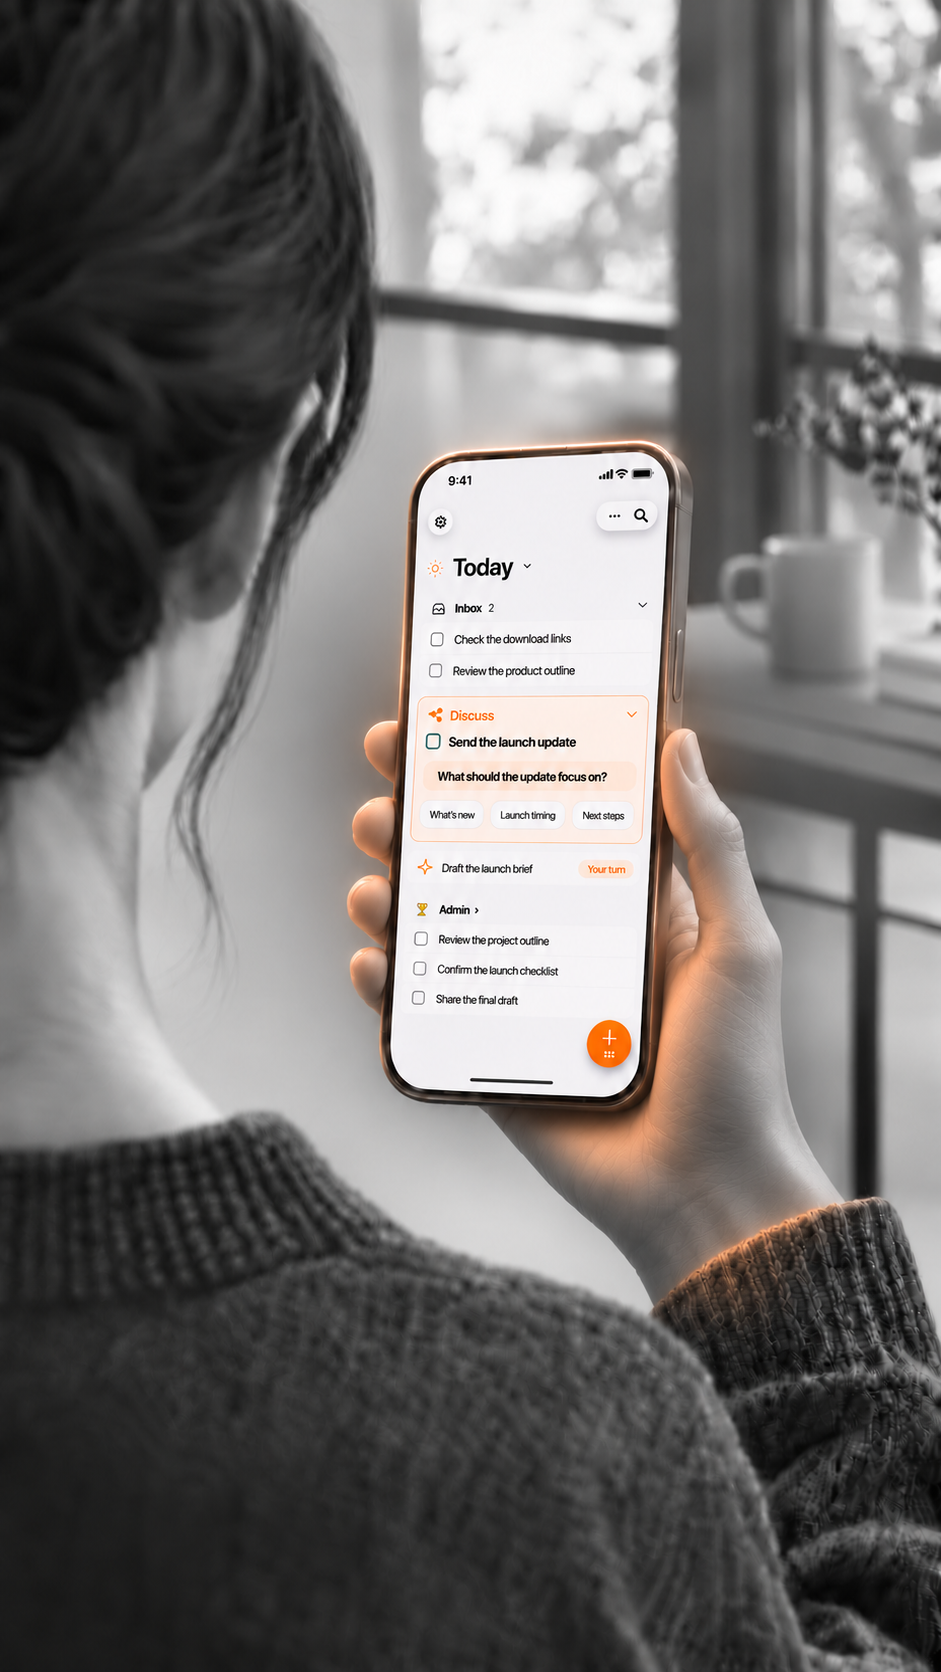
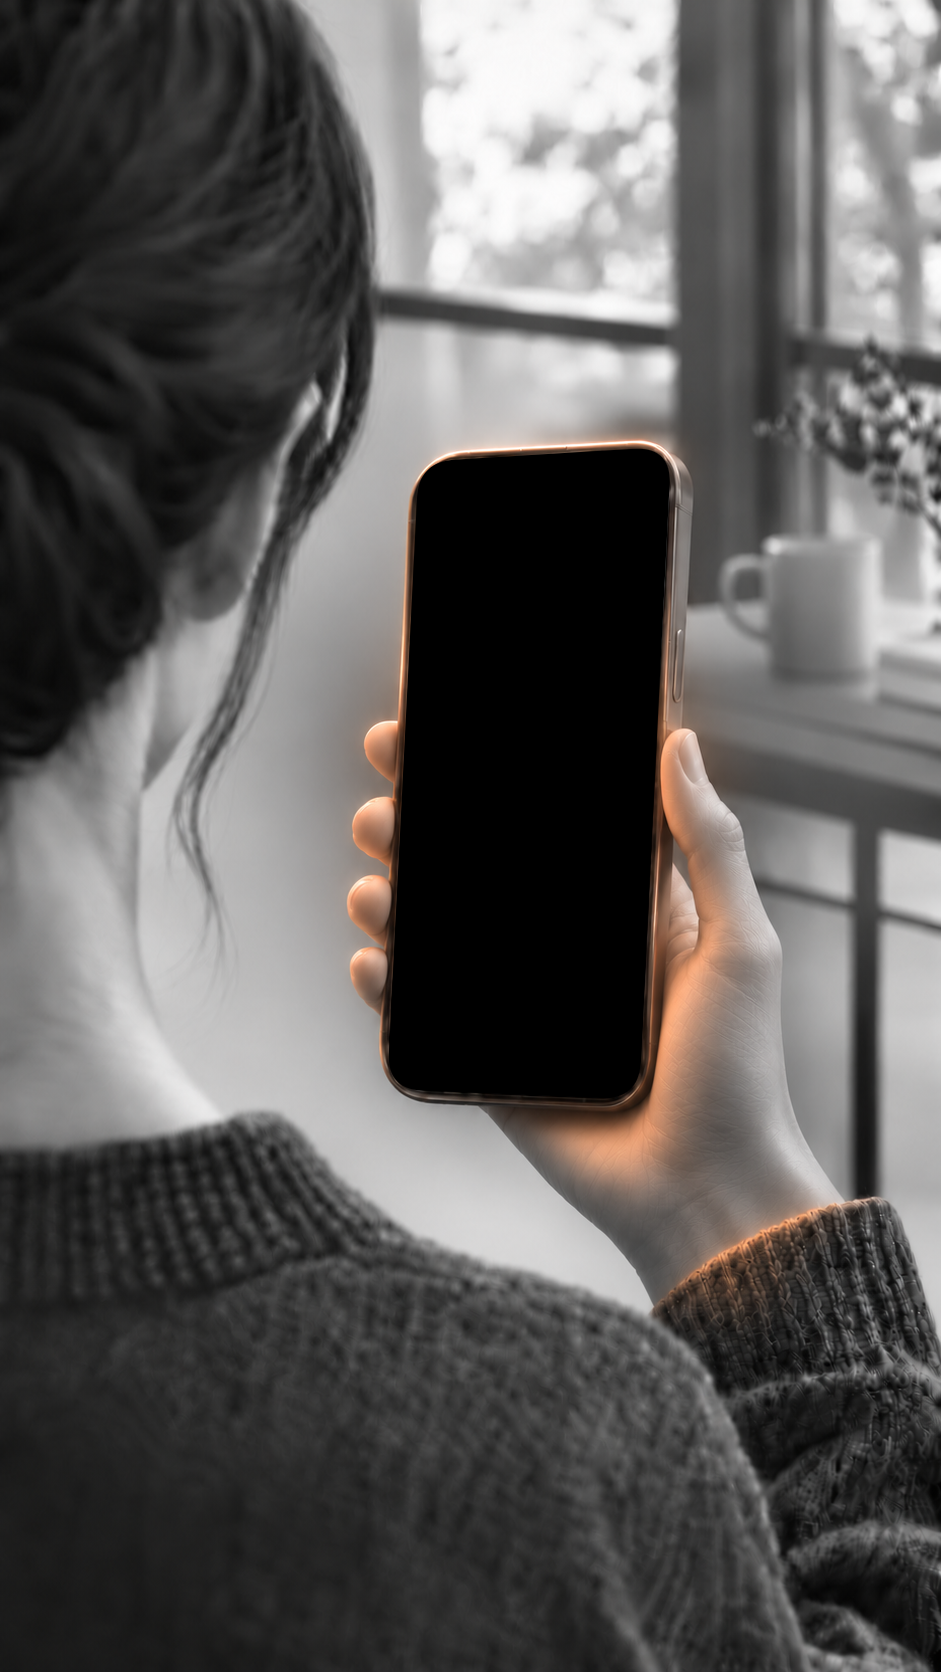
Photo composite skill; the Meet Septena photo has no generated screen
docs/photo-composite/SKILL.md holds the three-layer technique (photo,
screenshot PNG, text) for any photo with a device. A shipped screen is always
a composed PNG (mz, 2026-11-24).

- replace_photo_screen.py reads the corners from X.screen.json and stops when
  the sidecar is missing or the photo is not the measured file. --blackout
  paints the photo's own screen black. photo-today.png went through it: the
  generated screen also showed as a light line at the edge.
- render.mjs stops when a photo panel names no screen.
- The photo row's scene is "-" again: 8d7dcb2b set today/0, which drew a
  second, placeholder phone over the photo.

Changed region(s): [[0.4006, 0.2488, 0.7088, 0.6842]]

diff --git a/tools/3d-studio/replace_photo_screen.py b/tools/3d-studio/replace_photo_screen.py
@@ -1,21 +1,29 @@
 #!/usr/bin/env python3
 """
-Photorealistic Screen Replacement for `appstore/art/photo-today.png`
-(Runs via Blender's bundled Python + NumPy in ~2s — zero extra packages needed.)
+Photo composite: put a real app screenshot on the device in a photo.
+Technique and steps: docs/photo-composite/SKILL.md.
 
-Maps any real iPhone screenshot onto the exact sub-pixel projective screen quad of
-`photo-today.png` using:
-  - 4x4 linear-light supersampling (crisp, moire-free SF Pro UI text)
-  - Apple continuous-curvature squircle corner mask (exact 0.155w inner bezel match)
-  - Matched photographic OLED black-floor, white-point, subtle ambient falloff,
-    whisper-soft glass sheen, and fine sensor micro-grain
+The photo `X.png` needs a sidecar `X.screen.json` with the screen corners
+(TL, TR, BR, BL, normalized, origin top-left), the corner radius as a fraction
+of the screen width, and the SHA-256 of the photo. The script stops when the
+sidecar is missing or the photo is not the measured one, so a changed photo
+never gets a screenshot in the wrong place.
 
-Usage:
-  blender -b --python tools/3d-studio/replace_photo_screen.py -- \
-    --ios tools/3d-studio/screens/demo_ios.png \
-    --out tools/3d-studio/renders/photo_today_replaced.png
+Runs in Blender's bundled Python + NumPy (no extra packages): a projective
+warp with 4x4 linear-light supersampling, a continuous-curvature corner mask,
+and light matching (black floor, white point, falloff, sheen, grain).
+
+Composite:
+  blender -b --python-exit-code 1 --python tools/3d-studio/replace_photo_screen.py -- \
+    --photo appstore/art/photo-today.png --ios SCREEN.png --out OUT.png
+
+New photo (paint its own screen black, then pin the new hash in the sidecar):
+  blender -b --python-exit-code 1 --python tools/3d-studio/replace_photo_screen.py -- \
+    --photo X.png --blackout
 """
 import argparse
+import hashlib
+import json
 import os
 import sys
 import bpy
@@ -27,18 +35,6 @@ DEFAULT_PHOTO = os.path.join(REPO_ROOT, "appstore", "art", "photo-today.png")
 DEFAULT_IOS = os.path.join(SCRIPT_DIR, "screens", "demo_ios.png")
 DEFAULT_OUT = os.path.join(SCRIPT_DIR, "renders", "photo_today_replaced.png")
 
-# Sub-pixel measured screen quad of `appstore/art/photo-today.png` (941 x 1672),
-# in normalized [0..1] image coords (origin = top-left) so it scales cleanly if photo is resized.
-# Measured edge fit residuals: L=0.18px, R=0.04px, T=0.05px, B=0.05px.
-PHOTO_TODAY_QUAD_NORM = np.array([
-    [420.24 / 941.0,  463.26 / 1672.0],  # TL
-    [669.85 / 941.0,  448.10 / 1672.0],  # TR
-    [637.38 / 941.0, 1098.06 / 1672.0],  # BR
-    [388.61 / 941.0, 1087.80 / 1672.0],  # BL
-], dtype=np.float64)
-
-# Inner bezel rounded corner radius as fraction of screen width (measured ~0.155)
-CORNER_RADIUS_U = 0.156
 SQUIRCLE_POWER = 2.65
 
 
@@ -50,7 +46,8 @@ def parse_args():
         argv = []
     p = argparse.ArgumentParser(description="Replace iPhone screen in photo-today.png with a real screenshot")
     p.add_argument("--photo", default=DEFAULT_PHOTO, help="Base photograph path")
-    p.add_argument("--ios", default=DEFAULT_IOS, help="Real iPhone screenshot PNG/JPG")
+    p.add_argument("--ios", default=DEFAULT_IOS, help="Real app screenshot PNG/JPG")
+    p.add_argument("--blackout", action="store_true", help="Paint the photo's own screen black in place and pin its hash in the sidecar")
     p.add_argument("--out", default=DEFAULT_OUT, help="Output composited PNG path")
     p.add_argument("--inset-px", type=float, default=-0.5, help="Expand/contract screen mask in pixels (negative = slightly wider into bezel)")
     p.add_argument("--feather-px", type=float, default=1.25, help="Anti-aliased edge blend width in pixels")
@@ -60,6 +57,26 @@ def parse_args():
     p.add_argument("--grain", type=float, default=0.005, help="Matching photographic luma grain sigma")
     p.add_argument("--ssaa", type=int, default=4, help="Supersampling grid per axis (4 = 16 samples/px)")
     return p.parse_args(argv)
+
+
+def sha256(path):
+    with open(path, "rb") as f:
+        return hashlib.sha256(f.read()).hexdigest()
+
+
+def load_screen(photo_path, check_hash=True):
+    """Read and check the photo's sidecar. Exits when it cannot be trusted."""
+    side = os.path.splitext(photo_path)[0] + ".screen.json"
+    if not os.path.exists(side):
+        sys.exit(f"replace_photo_screen: {side} is missing. Measure the photo first (docs/photo-composite/SKILL.md).")
+    with open(side) as f:
+        meta = json.load(f)
+    corners = np.asarray(meta["corners"], dtype=np.float64)
+    if corners.shape != (4, 2) or corners.min() < 0.0 or corners.max() > 1.0:
+        sys.exit(f"replace_photo_screen: {side} needs 4 corners in 0..1")
+    if check_hash and meta.get("sha256") != sha256(photo_path):
+        sys.exit(f"replace_photo_screen: {photo_path} is not the photo {side} was measured on. Measure it again.")
+    return side, meta, corners, float(meta["cornerRadius"])
 
 
 def srgb_to_linear(c):
@@ -147,9 +164,37 @@ def save_image_topdown_srgb(arr_srgb, out_path):
     bpy.data.images.remove(out_img)
 
 
+def blackout(photo_path, photo, side, meta, corners, corner_radius):
+    """Remove the photo's own screen: paint it black, 1 px past the edge, so no
+    generated UI is left to show. Then pin the new file's hash."""
+    ph, pw, _ = photo.shape
+    quad_px = corners * np.array([[pw, ph]], dtype=np.float64)
+    H = compute_homography(quad_px, np.array([[0.0, 0.0], [1.0, 0.0], [1.0, 1.0], [0.0, 1.0]]))
+    gx, gy = np.meshgrid(np.arange(pw) + 0.5, np.arange(ph) + 0.5)
+    d = H[2, 0] * gx + H[2, 1] * gy + H[2, 2]
+    u = (H[0, 0] * gx + H[0, 1] * gy + H[0, 2]) / d
+    v = (H[1, 0] * gx + H[1, 1] * gy + H[1, 2]) / d
+    w = 0.5 * (np.linalg.norm(quad_px[1] - quad_px[0]) + np.linalg.norm(quad_px[2] - quad_px[3]))
+    h = 0.5 * (np.linalg.norm(quad_px[3] - quad_px[0]) + np.linalg.norm(quad_px[2] - quad_px[1]))
+    sdf_px = squircle_sdf(u, v, h / w, corner_radius, power=SQUIRCLE_POWER) * w
+    # Solid black to 1 px outside the edge, then a 1 px soft step into the bezel.
+    keep = np.clip(sdf_px - 1.0, 0.0, 1.0)
+    out = photo[:, :, :3] * np.where(d > 0, keep, 1.0)[..., None]
+    save_image_topdown_srgb(out, photo_path)
+    meta["sha256"] = sha256(photo_path)
+    with open(side, "w") as f:
+        json.dump(meta, f, indent=2)
+        f.write("\n")
+    print(f"Screen painted black in {photo_path}; hash pinned in {side}")
+
+
 def main():
     args = parse_args()
+    side, meta, corners, corner_radius = load_screen(args.photo, check_hash=not args.blackout)
     photo = load_image_topdown_srgb(args.photo)
+    if args.blackout:
+        blackout(args.photo, photo, side, meta, corners, corner_radius)
+        return
     screen = load_image_topdown_srgb(args.ios)
 
     ph, pw, _ = photo.shape
@@ -158,7 +203,7 @@ def main():
     print(f"Base photo: {pw}x{ph} | Screenshot: {sw}x{sh} (aspect={screen_aspect:.4f})")
 
     # Exact quad corners in base photo pixel coordinates
-    quad_px = PHOTO_TODAY_QUAD_NORM * np.array([[pw, ph]], dtype=np.float64)
+    quad_px = corners * np.array([[pw, ph]], dtype=np.float64)
     uv_corners = np.array([
         [0.0, 0.0],  # TL
         [1.0, 0.0],  # TR
@@ -213,7 +258,7 @@ def main():
     vc = (H[1, 0] * gx + H[1, 1] * gy + H[1, 2]) / denom_c
 
     # Continuous-curvature rounded screen mask with crisp optical anti-aliasing into the black bezel
-    sdf_px = squircle_sdf(uc, vc, screen_aspect, CORNER_RADIUS_U, power=SQUIRCLE_POWER) * mean_scr_w
+    sdf_px = squircle_sdf(uc, vc, screen_aspect, corner_radius, power=SQUIRCLE_POWER) * mean_scr_w
     # Smoothstep across [-feather, 0] shifted by inset_px
     edge = sdf_px - args.inset_px
     feather = max(0.5, args.feather_px)
@@ -232,7 +277,7 @@ def main():
     bezel_ao = 1.0 - 0.035 * np.exp(np.clip(sdf_px / 6.0, -10.0, 0.0))
     warped_srgb *= (illum * bezel_ao)[..., None]
 
-    # 3. Very subtle warm-cream color balance matching photo-today.png's original OLED tint
+    # 3. Very subtle warm-cream color balance matching a photographed OLED
     warped_srgb *= np.array([1.000, 0.994, 0.986], dtype=np.float64)[None, None, :]
 
     # 4. Subtle diagonal glossy glass reflection band (upper-right window sheen)

diff --git a/docs/photo-composite/SKILL.md b/docs/photo-composite/SKILL.md
@@ -1,0 +1,96 @@
+---
+name: septena-photo-composite
+description: Put a real Septena screenshot on the device in a photo (App Store panels, website, social). Use whenever a marketing image shows a device screen in a generated or real photo, when the screen or the photo of such an image changes, or when a new photo needs its screen measured.
+---
+
+# Photo composite
+
+A marketing photo with a device is three layers. Each layer changes on its own.
+
+| Layer | What | Source |
+|---|---|---|
+| 1. Photo | Person, hand, device body, light | Generated (ChatGPT / ImageGen) or real. `docs/photo-studio/SKILL.md` |
+| 2. Screenshot | The app, positioned in perspective on the device | A PNG of the real UI |
+| 3. Text | Title and lead | The panel renderer (`appstore/render.mjs`) or the page |
+
+**The rule (mz, 2026-11-24): the screen is always a composed screenshot, never
+a generated one.** A generated screen may exist while a photo is explored. It
+never ships, not under the screenshot and not at its edges.
+
+For devices that are 3D models, not a photo, use `docs/3d-studio/SKILL.md`.
+
+## Layer 2: which screenshot
+
+- Use an exported scene (`node appstore/export-scenes.mjs`, into
+  `appstore/scenes/`) or a native capture. Scenes come from the website's task
+  UI, not from the iPhone app: say so when it matters.
+- Not a screenshot: `tools/3d-studio/make_demo_screens.swift` output. Those
+  screens imitate the app.
+- mz supplies a "signature view" of the app later. Until then Meet Septena
+  uses scene `today/0`, light, Persimmon.
+- Synthetic content only. No sparkle icon for AI.
+
+## How it works
+
+`tools/3d-studio/replace_photo_screen.py` warps the PNG onto the four measured
+screen corners, masks the rounded corners, and matches the light of the photo
+(black floor, white point, falloff, sheen, grain). It reads no pixel of the
+photo's own screen. It runs in Blender's Python, so it needs Blender and no
+other package. The warp is flat perspective, not a 3D scene.
+
+Each photo `X.png` has a sidecar `X.screen.json` next to it:
+
+- `corners`: TL, TR, BR, BL of the lit screen, 0..1 of the photo, origin top-left.
+- `cornerRadius`: the screen's corner radius as a fraction of its width.
+- `sha256`: the exact file that was measured.
+
+## Change the screenshot
+
+Change `photo.screen` of the panel in `appstore/panels.septask.mjs`, export the
+scenes, render. The photo and the sidecar stay as they are.
+
+## Add or change a photo
+
+1. Put it in `appstore/art/`. The whole screen must be visible, flat, and lit
+   evenly. Nothing may cover it: there is no mask for a finger over the glass.
+   A light screen in the photo makes the edges easy to measure.
+2. Measure the four screen edges, not the corners: fit a line along each
+   straight edge and intersect the lines. The corners are rounded, so a corner
+   read by eye is wrong. Aim for a fit error under 0.5 px.
+3. Write `X.screen.json` with `corners` and `cornerRadius`. Leave `sha256` empty.
+4. Remove the photo's own screen. This paints it black in place and writes the
+   hash. Keep the original outside the repo:
+
+   ```bash
+   blender -b --python-exit-code 1 --python tools/3d-studio/replace_photo_screen.py -- \
+     --photo appstore/art/X.png --blackout
+   ```
+
+5. Compose, then look at the result at full size. Check the four corners, the
+   edges against the bezel, and that text runs parallel to the device edge:
+
+   ```bash
+   blender -b --python-exit-code 1 --python tools/3d-studio/replace_photo_screen.py -- \
+     --photo appstore/art/X.png --ios SCREEN.png --out /tmp/composite.png
+   ```
+
+6. A panel: add `photo: { src: "art/X.png", screen: { src, appearance, accent } }`.
+   Its row in `docs/APPSTORE-SEPTASK.md` keeps `-` as the scene: a scene there
+   draws a second, upright phone over the photo.
+   Anywhere else (website, social): use the composed PNG from step 5.
+
+Pass `--python-exit-code 1` always. Without it Blender exits 0 on a Python error.
+
+## What stops a generated screen
+
+- The photo in the repo has a black screen: there is nothing to fall back to.
+- `render.mjs` stops when a photo panel has no `screen`. `rendered: true` is
+  only for 3D Studio renders, whose screens are PNGs on the models.
+- `render.mjs` stops when the scene PNG is missing.
+- The script stops when the sidecar is missing or the photo is not the one
+  that was measured.
+
+## Known gap
+
+`appstore/art/photo-devices.png` is a 3D Studio render with imitated screens
+(`make_demo_screens.swift`). Render it again with real scenes or captures.

diff --git a/docs/APPSTORE-SEPTASK.md b/docs/APPSTORE-SEPTASK.md
@@ -219,16 +219,17 @@ reads this table; `appstore/validate.mjs` checks it.
   varies the fill, light or dark screen, phone size and number of phones per
   slug. Phones never tilt. Each screen shows the app in the panel's own accent
   (decided 2026-11-23).
-- The `photo` panel's phone screen is not the one in `art/photo-today.png`.
-  `render.mjs` replaces it with the exported `today/0` scene through
-  `tools/3d-studio/replace_photo_screen.py`, which needs Blender. The script
-  holds the screen corners of that photo: measure them again for a new photo.
+- The `photo` panel's phone screen is not part of `art/photo-today.png`.
+  `render.mjs` adds the exported `today/0` scene through
+  `tools/3d-studio/replace_photo_screen.py`, which needs Blender. The photo's
+  own screen is black, and `photo-today.screen.json` holds the screen corners.
+  Steps for a new photo or screenshot: `docs/photo-composite/SKILL.md`.
 
 ### iPhone
 
 | slug | scene | callout | title | sub |
 | --- | --- | --- | --- | --- |
-| photo | today/0 | - | Tasks that think with you. Meet Septena, the task app for you and your agents. | |
+| photo | - | - | Tasks that think with you. Meet Septena, the task app for you and your agents. | |
 | from-agent | today/0 | - | Septena is your agent’s memory. Plan out loud, and every task waits in your Inbox. | |
 | asks | agentPage/0 | - | Septena asks before it acts. Answer with a tap, and your agent does the work. | |
 | agent-result | review/0 | - | You decide when it’s done. Agent work waits in Septena’s Review until you accept it. | |

diff --git a/docs/photo-studio/SKILL.md b/docs/photo-studio/SKILL.md
@@ -12,7 +12,7 @@ Use this repo-local skill when creating Septena marketing images that show the t
 - Read `docs/APPSTORE-SEPTASK.md` for the current task-app story and panel copy, `appstore/panels.septask.mjs` for panel direction, and `registry/tokens.json` for the current accent. The current Persimmon light accent is `#E05212`.
 - Use a current Septena task-app screen as the display reference. Do not reuse the older all-in-one life-tracking screen. Check the active checkout for the scene or capture path before assuming where the current screen lives.
 - Use synthetic example content only. Do not include real names, personal tasks, or private user data.
-- Generated device screens are visual concepts: image generation can redraw small UI text. For release-ready screenshots, use the native app capture and the App Store rendering workflow.
+- Generated device screens are visual concepts: image generation can redraw small UI text. A generated screen never ships: the screen of a photo is always a composed PNG (`docs/photo-composite/SKILL.md`).
 
 ## User's established visual direction
 

diff --git a/docs/README.md b/docs/README.md
@@ -116,6 +116,7 @@ See [ADR 0007](adr/0007-septena-is-the-task-app.md).
 | [RECENTLY_DELETED_SPEC.md](RECENTLY_DELETED_SPEC.md), [TASK_LIST_OBSERVATION_PLAN.md](TASK_LIST_OBSERVATION_PLAN.md) | proposal |
 | [SEPTASK_APPKIT_PARITY.md](SEPTASK_APPKIT_PARITY.md), [SEPTASK_APPKIT_SURFACES.md](SEPTASK_APPKIT_SURFACES.md), [SEPTASK_APPKIT_LOCALIZATION_HANDOFF.md](SEPTASK_APPKIT_LOCALIZATION_HANDOFF.md) | AppKit shell notes |
 | [APPSTORE-SEPTASK.md](APPSTORE-SEPTASK.md), [RELEASING-MAC.md](RELEASING-MAC.md) | current |
+| [photo-composite/SKILL.md](photo-composite/SKILL.md), [photo-studio/SKILL.md](photo-studio/SKILL.md), [3d-studio/SKILL.md](3d-studio/SKILL.md) | current: marketing image skills |
 | [NATIVE_SCENES_SPEC.md](NATIVE_SCENES_SPEC.md) | superseded (ADR 0022 rejected): website scenes draw from the registries |
 | [PLATFORM_CHROME.md](PLATFORM_CHROME.md) | draft spec: what each OS draws on a marketing screen (iOS 27, iPadOS 27, macOS 27, Android 17, Windows 11) |
 

diff --git a/docs/3d-studio/SKILL.md b/docs/3d-studio/SKILL.md
@@ -7,6 +7,8 @@ description: Render repeatable, pixel-accurate 3D Apple device marketing scenes 
 
 Use this repo-local skill when creating or iterating on 3D device hero renders (MacBook Pro 14", iPad Mini, iPhone 17 Pro Max / Air, Apple Watch) for Septena marketing, App Store panels, or launch visuals.
 
+For a screenshot on a device in a photo, use `docs/photo-composite/SKILL.md`.
+
 All scripts live in `tools/3d-studio/`:
 - `tools/3d-studio/render.py` — headless Cycles/Metal studio builder & renderer
 - `tools/3d-studio/fetch_models.py` — reproducible fetcher for the pinned free Royalty-Free BlenderKit `.blend` models

diff --git a/AGENTS.md b/AGENTS.md
@@ -540,7 +540,8 @@ findings: `docs/SEPTASK.md`). Four app schemes now exist: `Septena`,
   binary, never a review submission (docs/APPSTORE-SEPTASK.md "Uploading").
   Mac is a separate ASC app (own deliver run). See `docs/APPSTORE.md`.
   For generated Photo Studio lifestyle images and device variants, use
-  `docs/photo-studio/SKILL.md`.
+  `docs/photo-studio/SKILL.md`. A device screen in a photo is always a composed
+  PNG, never a generated screen: `docs/photo-composite/SKILL.md`.
 
 ## Conventions
 
